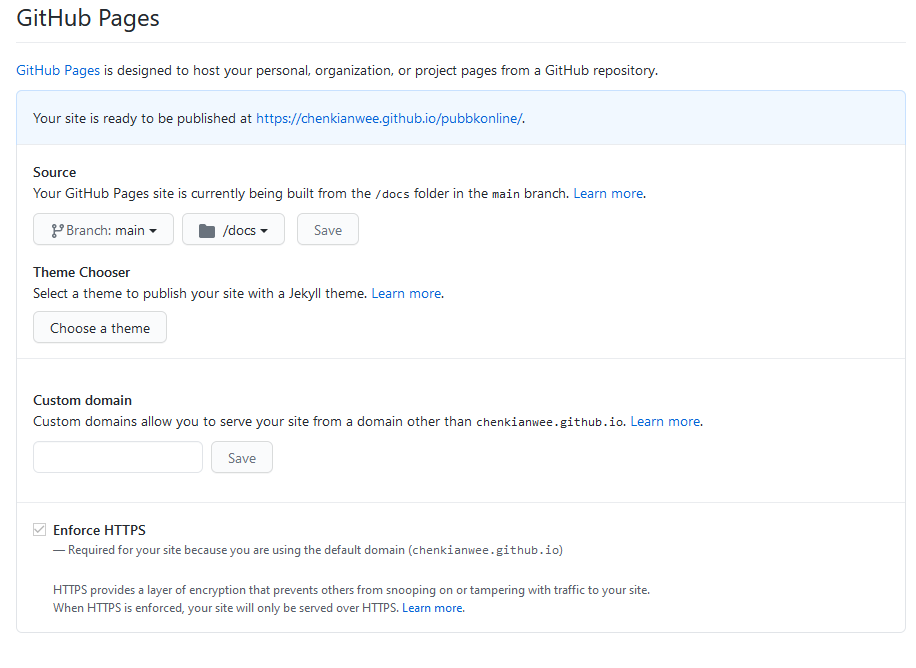
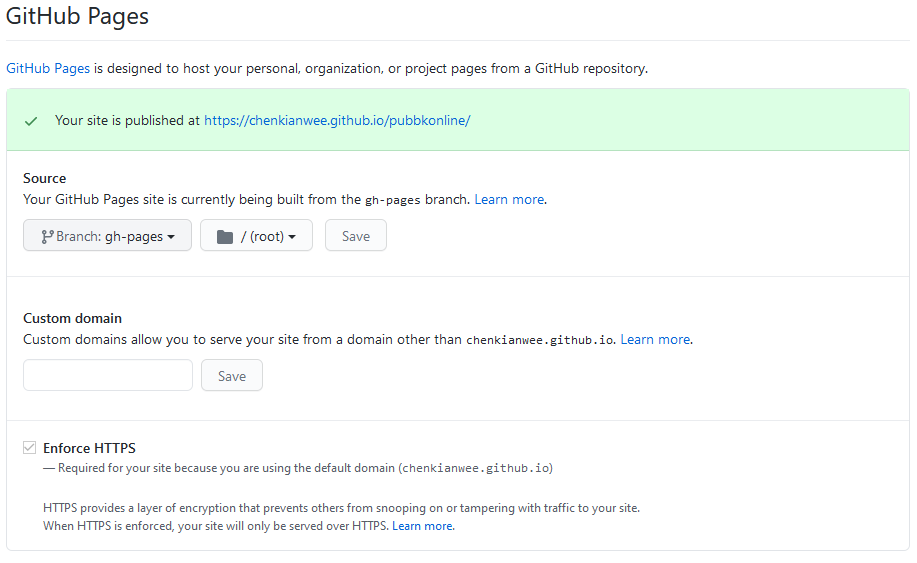
Update documentation

diff --git a/searchindex.js b/searchindex.js
@@ -1,1 +1,1 @@
-Search.setIndex({docnames:["docs/010intro","docs/020steps","docs/021installation","docs/022createbook","docs/023editbook","docs/024addfig","docs/025hyperref","docs/026pubonline","docs/050markdown","docs/051notebooks"],envversion:{"sphinx.domains.c":2,"sphinx.domains.changeset":1,"sphinx.domains.citation":1,"sphinx.domains.cpp":3,"sphinx.domains.index":1,"sphinx.domains.javascript":2,"sphinx.domains.math":2,"sphinx.domains.python":2,"sphinx.domains.rst":2,"sphinx.domains.std":1,"sphinx.ext.intersphinx":1,sphinx:56},filenames:["docs\\010intro.md","docs\\020steps.md","docs\\021installation.md","docs\\022createbook.md","docs\\023editbook.md","docs\\024addfig.md","docs\\025hyperref.md","docs\\026pubonline.md","docs\\050markdown.md","docs\\051notebooks.ipynb"],objects:{},objnames:{},objtypes:{},terms:{"020step":6,"100":9,"19680801":9,"4th":4,"default":[3,8],"function":8,"import":[7,9],"new":[4,5,7],But:9,For:[7,8,9],IDE:4,The:[4,7,8],There:[8,9],Use:4,With:4,_build:[3,7],_config:4,_static:5,_toc:[4,6],abl:[3,4],about:[8,9],accept:8,account:7,activ:[2,7],add:[4,8],add_:9,add_figur:5,added:4,adding:[4,5],afigurefil:5,again:[4,8],align:9,all:[2,7,8],allow:8,alreadi:8,also:[8,9],anaconda:[2,7],ani:[1,8],anoth:8,appear:6,arrai:9,associ:8,assum:7,atom:4,author:4,axes:9,base:0,begin:9,being:8,below:3,bib:8,bibliographi:8,bibtex:8,block:8,book:[0,2,6,8,9],both:8,box:8,branch:7,browser:[3,5],build:[3,4,5,8],built:8,call:[2,4,8,9],can:[5,6,8,9],cell:8,chang:[2,3,4,7],check:9,cite:8,cleaner:6,click:3,clone:7,cmap:9,cmd:7,cold:9,color:9,com:6,comfort:7,command:[2,3,4,5,6,7,8],commit:7,commonmark:8,compil:7,complex:8,comput:[7,8],conda:2,contain:7,content:[3,4,6,8],control:4,coolwarm:9,copi:7,creat:[2,4,6,7,9],custom_lin:9,cycler:9,data:9,defin:8,depend:8,desktop:7,differ:[1,8],directli:8,directori:[3,7],displai:8,doc:[6,7,8],document:[8,9],doesn:8,dollar:9,done:7,doubl:3,download:[2,4,7],ecosystem:8,edit:2,editor:4,either:1,emb:9,end:9,entir:8,environ:[2,7],escap:9,etc:9,exampl:[8,9],execut:[1,7],exercis:0,exist:8,extens:8,f5105857ecb6:9,familiar:0,fig:9,figsiz:9,figur:[3,4,6,7],file:[3,4,5,6,7],first:8,fix:9,flavor:8,folder:[3,4,5,7],follow:[2,3,5,7,8],from:[0,4,7,9],get:0,ghp:7,github:0,guid:[0,1,9],has:8,have:6,here:[4,7,8,9],holdgraf_evidence_2014:8,host:[0,7],hot:9,html:[3,7,9],http:6,imag:9,includ:[8,9],index:3,individu:2,inform:[0,8,9],init:8,input:[8,9],insert:8,insid:8,instal:[1,7],interact:9,intro:8,ion:9,ipynb:8,ipython:9,isol:2,issu:1,its:8,jpg:5,jupyt:[0,2,4,8,9],jupyterbook:[0,2,7],jupytext:8,just:[6,7],keep:9,kernel:8,kind:8,la_:9,languag:8,last:9,left:4,legend:9,less:8,librari:[0,2],like:8,line2d:9,line:[5,8,9],link:0,linspac:9,linux:1,local:7,logspac:9,look:8,lot:9,machin:1,maco:1,main:7,make:[4,9],mani:8,markedli:8,markup:8,math:9,matplotlib:9,mbox:9,mean:9,medium:9,messag:3,metadata:8,might:1,modul:9,modulenotfounderror:9,more:[0,8,9],moreoev:8,most:[8,9],move:6,must:8,mydirectivenam:8,mynewbook:[3,4],myself:0,name:[2,4,5,8,9],new_cont:5,newcont:[4,5],next:4,note:[0,8],notebook:[4,8],now:7,numpi:9,numref:5,onc:[2,4,7,8],one:8,onli:8,onlin:0,onto:[5,7],open:4,origin:[1,7],out:9,output:8,page:[5,7,8],past:7,path:8,pattern:8,peopl:7,pip:[2,7],pleas:[0,1],plot:9,plt:9,png:5,popul:7,post:9,power:8,pre:8,print:8,prop_cycl:9,properli:8,provid:1,publish:[0,1],purpos:8,push:7,put:5,pyplot:9,python:2,randn:9,random:9,rang:9,rcparam:9,recent:9,refer:[0,1,5,8],referenc:5,regist:7,regular:8,rel:8,rememb:4,render:8,repositori:7,reproduc:9,requir:[1,2],rest:[7,8],restructur:6,result:[1,4,5,8],rolenam:8,root:7,run:[1,8],same:[0,8],sampl:[4,9],save:4,screen:4,section:1,see:[3,4,5,7,8,9],seed:9,serv:[0,8],set:7,should:7,shown:[3,4,5,6,7],side:4,sign:9,similar:8,simplest:8,slight:[1,8],small:8,some:[4,8,9],span:8,specif:8,specifi:6,specify_your_dir_her:3,sphinx:8,stand:8,start:1,state:9,step:[4,7],store:[3,8],structur:[3,4,8],subplot:9,success:3,sure:9,sync:7,syntax:8,tabl:4,templat:4,termin:7,tex:9,text:[4,5,6,8],thei:8,thi:[0,1,2,3,4,6,7,8,9],those:8,through:0,time:[0,8],titl:4,tool:8,traceback:9,turn:7,two:8,use:8,used:8,uses:8,using:[1,4,6,7],valid:8,variat:8,veri:8,view:3,want:[3,9],well:9,when:8,where:3,wherea:8,whether:8,which:8,who:7,window:1,within:2,work:[8,9],write:8,written:[0,8],wrote:0,yml:[4,6],you:[0,1,3,4,5,6,7,8,9],your:[0,1,3,4,6,9]},titles:["Introduction","Steps to Write a Jupyter Book","Installation","Create a Book Template with Jupyter-book","Edit the Book","Add Figure in your book","Reference to Other Documents, Hyperlink and Folder Structure","Publish your Book on Github","Markdown Files","Content with notebooks"],titleterms:{Adding:8,Using:8,add:5,block:9,book:[1,3,4,5,7],citat:8,code:[8,9],content:9,creat:3,direct:8,document:6,edit:4,execut:8,figur:5,file:8,folder:6,github:7,hyperlink:6,instal:2,introduct:0,jupyt:[1,3],markdown:[8,9],myst:[8,9],notebook:9,other:6,output:9,publish:7,refer:6,role:8,step:1,structur:6,templat:3,what:8,write:1,your:[5,7,8]}})
+Search.setIndex({docnames:["docs/010intro","docs/020steps","docs/021installation","docs/022createbook","docs/023editbook","docs/024addfig","docs/025hyperref","docs/026pubonline","docs/050markdown","docs/051notebooks"],envversion:{"sphinx.domains.c":2,"sphinx.domains.changeset":1,"sphinx.domains.citation":1,"sphinx.domains.cpp":3,"sphinx.domains.index":1,"sphinx.domains.javascript":2,"sphinx.domains.math":2,"sphinx.domains.python":2,"sphinx.domains.rst":2,"sphinx.domains.std":1,"sphinx.ext.intersphinx":1,sphinx:56},filenames:["docs\\010intro.md","docs\\020steps.md","docs\\021installation.md","docs\\022createbook.md","docs\\023editbook.md","docs\\024addfig.md","docs\\025hyperref.md","docs\\026pubonline.md","docs\\050markdown.md","docs\\051notebooks.ipynb"],objects:{},objnames:{},objtypes:{},terms:{"020step":6,"100":9,"19680801":9,"4th":4,"default":[3,8],"function":8,"import":[7,9],"new":[4,5,7],But:9,For:[7,8,9],IDE:4,The:[4,7,8],There:[8,9],Use:4,With:4,_build:[3,7],_config:4,_static:5,_toc:[4,6],abl:[3,4],about:[8,9],accept:8,account:7,activ:[2,7],add:[4,8],add_:9,add_figur:5,added:4,adding:[4,5],afigurefil:5,again:[4,8],align:9,all:[2,7,8],allow:8,alreadi:8,also:[8,9],anaconda:[2,7],ani:[1,8],anoth:8,appear:6,arrai:9,associ:8,assum:7,atom:4,author:4,axes:9,base:0,begin:9,being:8,below:3,bib:8,bibliographi:8,bibtex:8,block:8,book:[0,2,6,8,9],both:8,box:8,branch:7,browser:[3,5],build:[3,4,5,8],built:8,call:[2,4,8,9],can:[5,6,8,9],cell:8,chang:[2,3,4,7],check:9,cite:8,cleaner:6,click:3,clone:7,cmap:9,cmd:7,cold:9,color:9,com:6,comfort:7,command:[2,3,4,5,6,7,8],commit:7,commonmark:8,compil:7,complex:8,comput:[7,8],conda:2,contain:7,content:[3,4,6,8],control:4,coolwarm:9,copi:7,creat:[2,4,6,7,9],custom_lin:9,cycler:9,data:9,defin:8,depend:8,desktop:7,differ:[1,8],directli:8,directori:[3,7],displai:8,doc:[6,8],document:[8,9],doesn:8,dollar:9,done:7,doubl:3,download:[2,4,7],ecosystem:8,edit:2,editor:4,either:1,emb:9,end:9,entir:8,environ:[2,7],escap:9,etc:9,exampl:[8,9],execut:[1,7],exercis:0,exist:8,extens:8,f5105857ecb6:9,familiar:0,fig:9,figsiz:9,figur:[3,4,6,7],file:[3,4,5,6,7],first:8,fix:9,flavor:8,folder:[3,4,5,7],follow:[2,3,5,7,8],from:[0,4,7,9],get:0,ghp:7,github:0,guid:[0,1,9],has:8,have:6,here:[4,7,8,9],holdgraf_evidence_2014:8,host:[0,7],hot:9,html:[3,7,9],http:6,imag:9,includ:[8,9],index:3,individu:2,inform:[0,8,9],init:8,input:[8,9],insert:8,insid:8,instal:[1,7],interact:9,intro:8,ion:9,ipynb:8,ipython:9,isol:2,issu:1,its:8,jpg:5,jupyt:[0,2,4,8,9],jupyterbook:[0,2,7],jupytext:8,just:[6,7],keep:9,kernel:8,kind:8,la_:9,languag:8,last:9,left:4,legend:9,less:8,librari:[0,2],like:8,line2d:9,line:[5,8,9],link:0,linspac:9,linux:1,local:7,logspac:9,look:8,lot:9,machin:1,maco:1,main:7,make:[4,9],mani:8,markedli:8,markup:8,math:9,matplotlib:9,mbox:9,mean:9,medium:9,messag:3,metadata:8,might:1,modul:9,modulenotfounderror:9,more:[0,8,9],moreoev:8,most:[8,9],move:6,must:8,mydirectivenam:8,mynewbook:[3,4],myself:0,name:[2,4,5,8,9],new_cont:5,newcont:[4,5],next:4,note:[0,8],notebook:[4,8],now:7,numpi:9,numref:5,onc:[2,4,7,8],one:8,onli:8,onlin:0,onto:[5,7],open:4,origin:[1,7],out:9,output:8,page:[5,7,8],past:7,path:8,pattern:8,peopl:7,pip:[2,7],pleas:[0,1],plot:9,plt:9,png:5,popul:7,post:9,power:8,pre:8,print:8,prop_cycl:9,properli:8,provid:1,publish:[0,1],purpos:8,push:7,put:5,pyplot:9,python:2,randn:9,random:9,rang:9,rcparam:9,recent:9,refer:[0,1,5,8],referenc:5,regist:7,regular:8,rel:8,rememb:4,render:8,repositori:7,reproduc:9,requir:[1,2],rest:[7,8],restructur:6,result:[1,4,5,8],rolenam:8,root:7,run:[1,8],same:[0,8],sampl:[4,9],save:4,screen:4,section:1,see:[3,4,5,7,8,9],seed:9,serv:[0,8],set:7,should:7,shown:[3,4,5,6,7],side:4,sign:9,similar:8,simplest:8,slight:[1,8],small:8,some:[4,8,9],span:8,specif:8,specifi:6,specify_your_dir_her:3,sphinx:8,stand:8,start:1,state:9,step:[4,7],store:[3,8],structur:[3,4,8],subplot:9,success:3,successfulli:7,sure:9,sync:7,syntax:8,tabl:4,templat:4,termin:7,tex:9,text:[4,5,6,8],thei:8,thi:[0,1,2,3,4,6,7,8,9],those:8,through:0,time:[0,8],titl:4,tool:8,traceback:9,turn:7,two:8,use:8,used:8,uses:8,using:[1,4,6,7],valid:8,variat:8,veri:8,view:3,want:[3,9],well:9,when:8,where:3,wherea:8,whether:8,which:8,who:7,window:1,within:2,work:[8,9],write:8,written:[0,8],wrote:0,yml:[4,6],you:[0,1,3,4,5,6,7,8,9],your:[0,1,3,4,6,9]},titles:["Introduction","Steps to Write a Jupyter Book","Installation","Create a Book Template with Jupyter-book","Edit the Book","Add Figure in your book","Reference to Other Documents, Hyperlink and Folder Structure","Publish your Book on Github","Markdown Files","Content with notebooks"],titleterms:{Adding:8,Using:8,add:5,block:9,book:[1,3,4,5,7],citat:8,code:[8,9],content:9,creat:3,direct:8,document:6,edit:4,execut:8,figur:5,file:8,folder:6,github:7,hyperlink:6,instal:2,introduct:0,jupyt:[1,3],markdown:[8,9],myst:[8,9],notebook:9,other:6,output:9,publish:7,refer:6,role:8,step:1,structur:6,templat:3,what:8,write:1,your:[5,7,8]}})

diff --git a/docs/026pubonline.html b/docs/026pubonline.html
@@ -261,7 +261,7 @@
 </pre></div>
 </div>
 </li>
-<li><p>Go to the settings of your github repository. Turn on gh-pages, set your branch to main and root to /docs as shown in <a class="reference internal" href="#gh-pages"><span class="std std-numref">Figure 21</span></a>.</p>
+<li><p>Go to the settings of your github repository. Turn on gh-pages, set your branch to gh-pages and folder to /root as shown in <a class="reference internal" href="#gh-pages"><span class="std std-numref">Figure 21</span></a>.</p>
 <div class="figure align-default" id="gh-pages">
 <img alt="../_images/gh_pages.png" src="../_images/gh_pages.png" />
 <p class="caption"><span class="caption-number">Fig. 21 </span><span class="caption-text">Turn on the gh-pages settings on your repository.</span><a class="headerlink" href="#gh-pages" title="Permalink to this image">¶</a></p>
@@ -270,6 +270,10 @@
 <li><p>Once that is done. On your local computer, cd to your book folder (the folder should contain the _build directory) and execute the following command.</p>
 <div class="highlight-default notranslate"><div class="highlight"><pre><span></span><span class="n">ghp</span><span class="o">-</span><span class="kn">import</span> <span class="o">-</span><span class="n">n</span> <span class="o">-</span><span class="n">p</span> <span class="o">-</span><span class="n">f</span> <span class="n">_build</span><span class="o">/</span><span class="n">html</span>
 </pre></div>
+</div>
+<div class="figure align-default" id="ghp-import">
+<img alt="../_images/ghp_import.png" src="../_images/ghp_import.png" />
+<p class="caption"><span class="caption-number">Fig. 22 </span><span class="caption-text">Successfully executed ghp-import.</span><a class="headerlink" href="#ghp-import" title="Permalink to this image">¶</a></p>
 </div>
 </li>
 </ol>

diff --git a/_sources/docs/026pubonline.md b/_sources/docs/026pubonline.md
@@ -26,7 +26,7 @@
     pip install ghp-import
     ```
 
-7. Go to the settings of your github repository. Turn on gh-pages, set your branch to main and root to /docs as shown in {numref}`Figure %s <gh_pages>`.
+7. Go to the settings of your github repository. Turn on gh-pages, set your branch to gh-pages and folder to /root as shown in {numref}`Figure %s <gh_pages>`.
     ```{figure} /_static/steps/gh_pages.png
     :name: gh_pages
 
@@ -35,4 +35,9 @@
 8. Once that is done. On your local computer, cd to your book folder (the folder should contain the _build directory) and execute the following command.
     ```
     ghp-import -n -p -f _build/html
+    ```
+    ```{figure} /_static/steps/ghp_import.png
+    :name: ghp_import
+
+    Successfully executed ghp-import.
     ```
